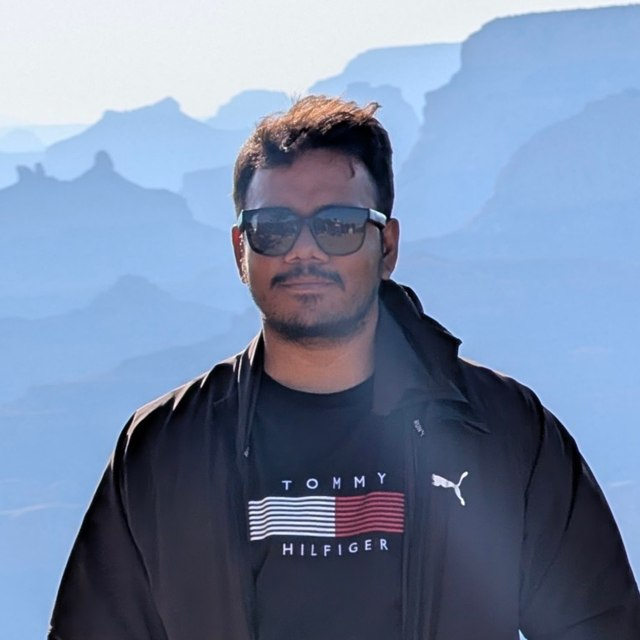
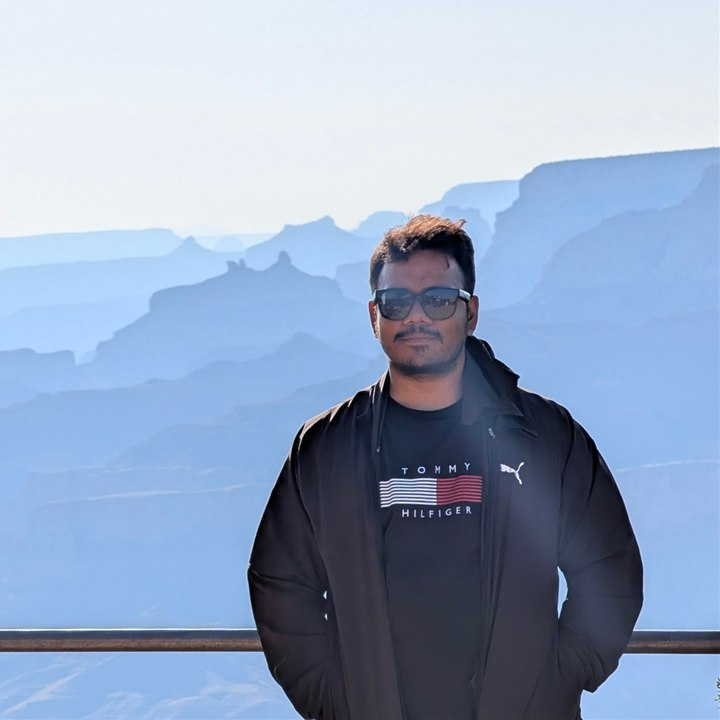
Use wider crop for profile photo

diff --git a/index.html b/index.html
@@ -57,7 +57,7 @@
     </div>
 
     <div class="profile-card">
-      <img class="profile-photo" src="assets/img/profile.jpg" alt="Ahsan Habib Akash at the Grand Canyon" width="220" height="220">
+      <img class="profile-photo" src="assets/img/profile.jpg?v=2" alt="Ahsan Habib Akash at the Grand Canyon" width="220" height="220">
       <div class="profile-meta">Morgantown, WV<br>Interpretability · VLMs<br>RL post-training · Medical AI</div>
     </div>
   </div>
